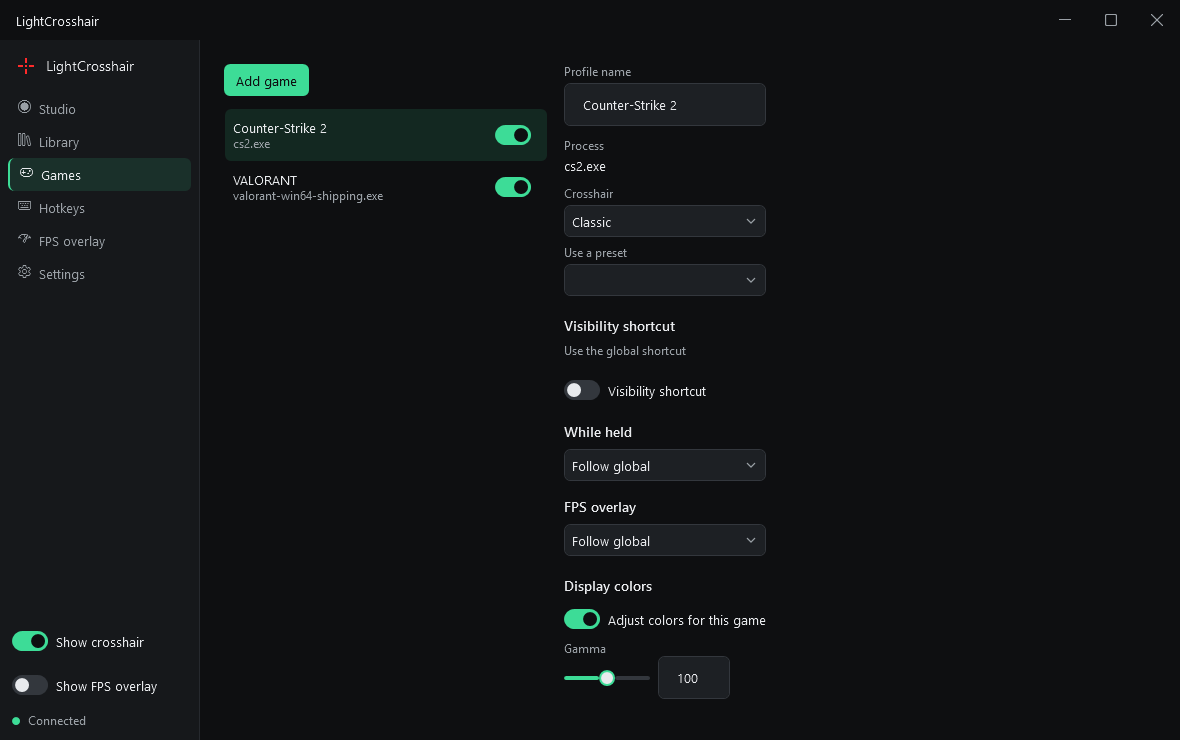
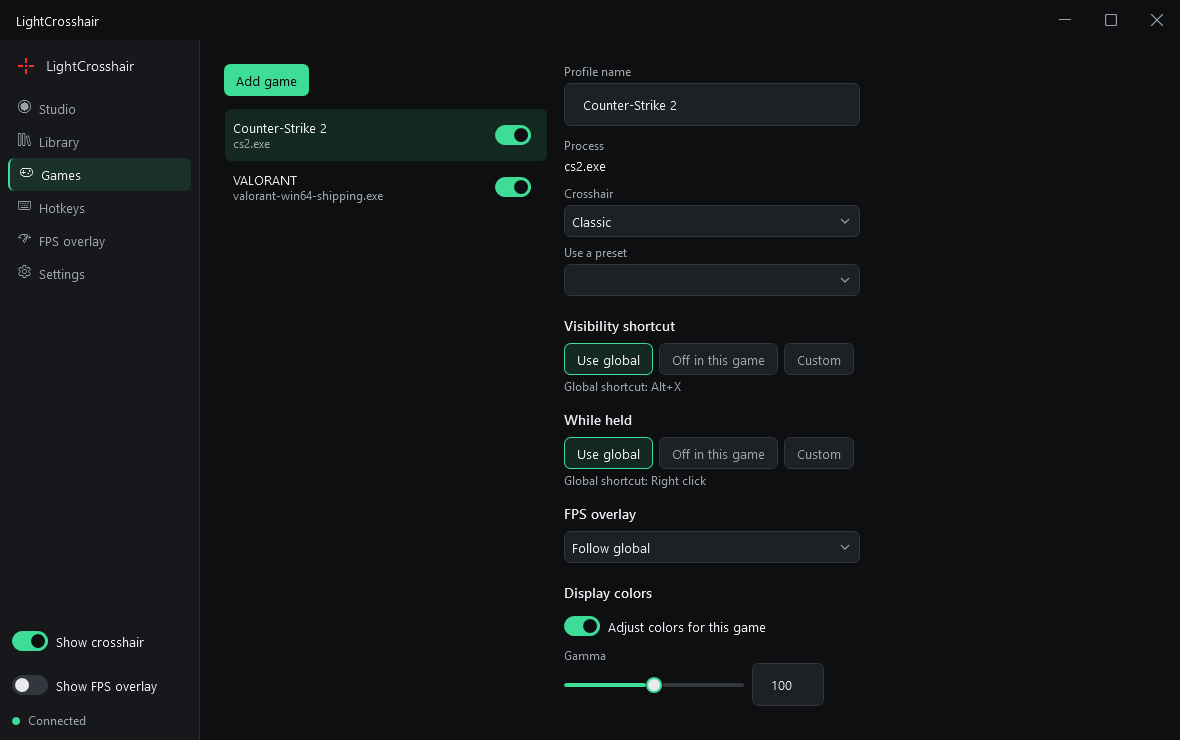
Document the release-blocker fixes and record how each was verified
README, CHANGELOG and SETTINGS describe the FPS overlay hotkey, graph color,
single binding control, immediate game overrides, close-button choice and live
display colors. OPEN-ITEMS has a status line per item with the evidence and
what Lorenzo still needs to check in game. Hotkeys, Games and Settings
screenshots are regenerated.

Changed region(s): [[0.4576, 0.4662, 0.7322, 0.6527], [0.4576, 0.6838, 0.6712, 0.9324]]

diff --git a/docs/SETTINGS.md b/docs/SETTINGS.md
@@ -1,6 +1,6 @@
 # Settings guide — LightCrosshair 2.0
 
-Open settings from the tray or with Alt+L. Closing this window leaves the Core and overlay running. **Exit LightCrosshair** on the Settings page stops both processes and restores display colors.
+Open settings from the tray or with Alt+L. By default closing this window leaves the Core and overlay running (Settings → Behavior → **When I close the window** can make it exit everything). **Exit LightCrosshair** on the Settings page stops both processes and restores display colors. Confirmations and errors appear inside the window; Tab moves between their buttons, Enter chooses, Esc cancels.
 
 ## Visibility and saving
 
@@ -58,13 +58,13 @@ Next/previous hotkeys cycle favorites only when at least two exist. With zero or
 
 Use **Add game** to choose a running windowed process or browse to an `.exe`. A profile matches the executable file name, not a particular window title or full path. One profile is allowed per executable name.
 
-Select a profile to edit its name and crosshair, then Save. The list's enable switch controls whether its foreground overrides are used. Deleting a profile removes its game association, leaving its saved crosshair in Library.
+Select a profile to edit its name, colors and other options, then **Save profile**. The crosshair choice and the two binding overrides save immediately. The list's enable switch controls whether its foreground overrides are used. Deleting a profile removes its game association, leaving its saved crosshair in Library.
 
 | Control | Behavior |
 |---|---|
 | Crosshair | Saved design to use while the configured executable is in the foreground |
-| Visibility override | Use a game-specific visibility binding and mode, or inherit the global binding |
-| While held | Follow global, off in this game, or an independent Hold to hide / Hold to show keyboard or mouse-button binding |
+| Visibility shortcut | **Use global** (the global shortcut is shown below), **Off in this game**, or **Custom**: one binding field plus Toggle / Hold to hide / Hold to show. Saves immediately |
+| While held | **Use global**, **Off in this game**, or **Custom**: one binding field plus Hold to hide / Hold to show. Saves immediately |
 | FPS overlay | Follow the global setting, force On or force Off |
 | Use display colors | Apply saved values while this game is active; switching off retains the values |
 | Gamma / Contrast / Brightness | Display adjustments, 50–150; 100 is neutral |
@@ -76,7 +76,7 @@ Display colors affect the display, not just the crosshair. Leaving a game restor
 
 AMD uses driver brightness, contrast and vibrance plus a per-display GDI gamma ramp. Gamma 100 preserves the existing calibration. Unsupported driver requests are reported inline and logged with the vendor's reason. Success clears an apply error; a failed restoration keeps its recovery journal for retry. NVIDIA features remain hardware-dependent.
 
-Drag a color slider to preview the current working values, including unsaved Games edits. Preview requests are limited to 20 per second and always drain the final value. Releasing, leaving the page, parking or disconnecting ends the preview and restores the active game/global context. Games edits still require Save; Settings saves automatically.
+Moving a color slider previews the value live, without flashing the old colors in between. Preview requests are limited to 20 per second and always send the final value. In Games the released value stays on screen until you **Save profile**, pick another profile, leave the page, close the window or disconnect; Save then applies the saved colors at once in the current context (the game, if it is the last foreground app), no game restart needed. Settings saves automatically on release. Colors are re-applied whenever the foreground app changes, so a game that resets the display on focus gets them back.
 
 A driver cap is written when the profile is saved and persists in the driver's application profile. Turning off the profile's foreground enable switch does not clear that cap: switch off the cap and Save, or delete the managed profile, to remove it. Old driver caps that were never managed by 2.0 are left untouched.
 
@@ -90,10 +90,11 @@ Known-game suggestions offer **Create**, **Not now** and **Never for this game**
 | Alt+C | Next favorite when at least two exist; otherwise next saved crosshair |
 | Alt+V | Previous favorite when at least two exist; otherwise previous saved crosshair |
 | Alt+L | Open or close settings |
+| Alt+F | Show or hide the FPS overlay (same setting as the sidebar switch; a game's FPS override still wins) |
 
-Click a capture field and press the desired keyboard key; Esc cancels. For a mouse binding, use the explicit picker for Middle click, Right click, Mouse4, Mouse5, Wheel up or Wheel down, then choose the Alt, Ctrl, Shift or Win modifiers alongside it. Mouse input can also be captured while the capture field is active. **Clear** removes a binding.
+Every binding is one field. Click it and press a key, a key with Alt/Ctrl/Shift/Win, or a mouse button (Middle, Right, Mouse4, Mouse5, wheel); Esc cancels. Or open the field's ▾ menu (Alt+Down) and pick a mouse button; the current modifiers stay. **Clear** removes a binding.
 
-**While held** is a separate action, unbound initially, with Hold to hide / Hold to show modes. For example, select Right click without modifiers and Hold to hide to hide while aiming. The visibility toggle keeps Alt+X. A game can inherit, disable or replace the global hold binding. Other actions and all wheel bindings use Toggle. Releasing a hold, losing focus or starting binding capture restores the underlying visibility state; the temporary hold is never saved. Core actions are paused during binding capture and resume when it ends. Input still reaches other applications; a bound mouse button keeps its normal game behavior.
+**While held** is a separate action, unbound initially, with Hold to hide / Hold to show modes. For example, select Right click without modifiers and Hold to hide to hide while aiming. A hold also works while other modifiers are held (sprinting with Shift, crouching with Ctrl); toggles need their exact chord. Mouse buttons are read from raw input, the same stream games read, so a game's own raw-input mode does not hide them. The visibility toggle keeps Alt+X. A game can inherit, disable or replace the global hold binding. Other actions and all wheel bindings use Toggle. Releasing a hold, losing focus or starting binding capture restores the underlying visibility state; the temporary hold is never saved. Core actions are paused during binding capture and resume when it ends. Input still reaches other applications; a bound mouse button keeps its normal game behavior.
 
 Conflicts and Core registration failures appear under the affected action. Choose another binding if Windows or another application already owns it.
 
@@ -105,7 +106,7 @@ Choose the overlay monitor by model name, for example **DELL S2721DGF · Display
 
 ### Display colors
 
-Enable **Adjust display colors** in Settings to apply gamma, contrast, brightness and vibrance on the desktop and in apps. Controls and ranges match Games. Optional NVIDIA Digital Vibrance is enabled only when the GPU reports support. An active game's enabled, configured colors override globals. With neither enabled, original display values are restored. Global settings save automatically; slider preview ends on release and returns to that precedence. These changes affect the whole display, including other apps.
+Enable **Adjust display colors** in Settings to apply gamma, contrast, brightness and vibrance on the desktop and in apps. Controls and ranges match Games. Optional NVIDIA Digital Vibrance is enabled only when the GPU reports support. An active game's enabled, configured colors override globals. With neither enabled, original display values are restored. Global settings save automatically; the released value is saved and stays applied unless an enabled game profile has priority. These changes affect the whole display, including other apps.
 
 ### Behavior
 
@@ -115,6 +116,7 @@ Enable **Adjust display colors** in Settings to apply gamma, contrast, brightnes
 | Hide during screen recording | Check for recorder processes only while enabled; an open recorder can hide the crosshair even when it is not recording |
 | Start with Windows | Start the Core for the current user at sign-in |
 | Suggest known games | Offer local profile suggestions for recognized foreground executables |
+| When I close the window | **Keep running in the tray** (default: the window hides, crosshair and FPS overlay stay) or **Exit LightCrosshair** (× quits settings and Core, restoring display colors). Tray → Exit always quits both |
 
 ### Language, updates and exit
 
@@ -136,6 +138,7 @@ Open **FPS overlay** in the sidebar (between Hotkeys and Settings). Use **Show F
 | Frametime / 1% low | Show or hide the additional values |
 | Frametime graph | Off by default. Show about two seconds of peak frametimes under the numbers, at at most 20 redraws/s. With the graph off, unchanged numbers cause no redraw; with the overlay off, capture and its timer stop. |
 | Text color / Background color | Hexadecimal RGB colors |
+| Use a different color for the graph | Off: the graph uses the text color. On: choose a graph color |
 | Background opacity | Background transparency, 0–100% |
 
 ## Storage and recovery

diff --git a/docs/v2/OPEN-ITEMS.md b/docs/v2/OPEN-ITEMS.md
@@ -9,42 +9,59 @@ Everything else in [TODO.md](TODO.md) and [RELEASE-CHECKLIST.md](RELEASE-CHECKLI
 ## To fix
 
 ### 1. Hotkey for the FPS overlay
+**Status (2026-11-17): fixed.** `HotkeySettings.ToggleFpsOverlay`, default Alt+F (left unbound when a migrated 1.9 binding already uses Alt+F), toggles and persists `Settings.FpsOverlay.Enabled`, the same setting as the sidebar switch; a game's FPS override still wins in that game. New "Show or hide FPS overlay" row on Hotkeys with the same control and conflict/registration errors. Verified: unit tests (default, conflict, toggle-only, migration), UI tests, and `scripts/perf/fps-hotkey-smoke.ps1` pressing a real Alt+F against the published Core (False → True → False). Lorenzo: press Alt+F in game.
+
 - Add a "Show/hide FPS overlay" hotkey, like the crosshair one (Hotkeys page, same capture control).
 - Contract: `HotkeySettings.ToggleFpsOverlay` (InputBinding). Default to decide (proposal: unbound, or Alt+F if it doesn't conflict).
 - It toggles the same setting as the sidebar "Show FPS overlay" switch.
 
 ### 2. Separate color for the frametime graph
+**Status: fixed.** `FpsOverlaySettings.GraphColor` (null = text color), validated like the other colors. FPS overlay page: "Use a different color for the graph" switch (shown with the graph) + color field. Verified: Core/UI tests and the published UI (switch on → store `graphColor` set). Lorenzo: check the graph color in game.
+
 - Default: the graph uses the text color.
 - Option: "Use a different color for the graph" + color field.
 - Contract: `FpsOverlaySettings.GraphColor` (`string?`, null = same as text).
 
 ### 3. Hide while aiming doesn't work in game
+**Status: fixed; needs Lorenzo's in-game check.** Evidence: (a) with the shipped build, a borderless DX12 window that reads the mouse through raw input with `RIDEV_NOLEGACY` (new `SwapchainProbe --raw-nolegacy`) hides/shows correctly for a global and a per-game Right click hold, with mouse movement, so the hook, binding resolution and redraw worked; (b) Lorenzo's saved store (read-only) has Fortnite `holdVisibility.key = ""`, i.e. **Off in this game**: the Games page showed "Own binding / Right click" only in its unsaved working copy, so Core never had the binding; (c) the shipped build ignores the hold while Shift is held (sprint): 40/40 samples shown. Fixes: Games overrides now save immediately (item 4); a hold matches while extra modifiers are held (toggles keep exact chords); mouse buttons and wheel are read from raw input (`RIDEV_INPUTSINK`, the stream games read) instead of a low-level mouse hook, so another app's hook or a game's raw-input mode cannot hide them. New build: hold-smoke passes (with and without raw input), and with Shift held 40/40 samples hidden. Lorenzo: in Fortnite set While held → Custom → Right click → Hold to hide (it saves at once) and aim, also while sprinting.
+
 - Setup: While held → Own binding → Right click → Hold to hide. In Fortnite, holding right mouse does not hide the crosshair.
 - Investigate with evidence: does the low-level mouse hook see the right button while the game has focus (raw input, EAC)? Does the binding reach the state machine? Does the game-profile override resolve correctly? Is the overlay redrawn on press/release?
 - Verify in a real game, not only in tests.
 
 ### 4. "While held" setup is confusing
+**Status: fixed.** One binding control everywhere: a capture field with a ▾ menu of mouse buttons (Alt+Down opens it; wheel entries only where toggles are allowed), plus the mode selector where it applies; the separate mouse dropdowns are gone. Games: Visibility shortcut and While held are three segments, Use global · Off in this game · Custom (with the global shortcut shown), and save immediately. Also fixed a capture bug: the field asked `CanExecute` with the wrong argument, which threw for typed commands. Verified: UI tests (menu keeps modifiers, wheel forces Toggle, immediate override saves with unrelated edits left unsaved) and the published UI via UI Automation (Custom → store `RightClick/holdToHide` without Save); screenshots in `docs/images/ui-hotkeys.png`, `ui-games.png`.
+
 - The row shows a dropdown ("Own binding"), a capture field ("Right click") **and** a second "Right click" dropdown: two controls for the same thing.
 - Redesign to one binding control that accepts both a key/mouse capture and a mouse-button choice (for example a capture field with a ▾ that lists mouse buttons), plus the mode (Hold to hide / Hold to show).
 - In Games, the override reads as three clear choices: Use global · Off in this game · Custom (then the same single control).
 - Apply the same single control to every hotkey row for consistency.
 
 ### 5. All dialogs in the app style
+**Status: fixed.** The last Windows `MessageBox` (UI unhandled-error handler) now uses the in-app dialog. The dialog takes keyboard focus on the primary button, or on Cancel for destructive confirmations, keeps Tab inside, Esc cancels, text wraps, all strings localized. Core uses only tray balloons. A test fails if `MessageBox`/`TaskDialog` appears in Core or UI sources. Verified: UI tests (focus, Esc) and the published UI (Exit confirmation rendered in the app style with focus on Cancel).
+
 - No default Windows message boxes anywhere: confirmations, errors, warnings, unsaved changes, import results, etc. use an in-app dialog styled with the design tokens (DESIGN.md), keyboard accessible, localized in 6 languages.
 - Check Core too (tray-related errors); Windows tray notifications can stay native.
 
 ### 6. Close button behavior setting
+**Status: fixed.** `AppSettings.CloseButtonExits` (default false). Settings → Behavior → "When I close the window": Keep running in the tray / Exit LightCrosshair. Tray → Exit and Settings → Exit still quit both. Verified in the published app: with Exit chosen, the window × ended both UI and Core; with the default, × parked the UI and Core kept running. Alt+L is unchanged.
+
 - Settings → Behavior: "When I close the window" → **Keep running in the tray** (default, same as Alt+L: the window parks, overlays stay) / **Exit LightCrosshair** (closes UI and Core, overlays disappear).
 - Contract: `AppSettings.CloseButtonExits` (bool, default false), or an enum.
 - Tray → Exit keeps exiting everything.
 
 ### 7. Display colors: live preview and immediate apply are broken
+**Status: fixed; needs Lorenzo's in-game check.** Cause: every color change ran a full transaction that first restored the original ramp/ADL values and re-captured them, so each preview step flashed the old colors, and the Games preview ended on release (reverting to the saved values). Fix: a live session writes new values straight over its kept baseline (restore only when no colors apply or NVIDIA vibrance presence changes); AMD puts the captured ramp back when gamma returns to 100; colors are re-applied on every foreground change; the Games preview stays after release until Save / another profile / page change / park; Save applies at once in the current context. Readback on the RX 6950 XT (`scripts/perf/color-live-smoke.ps1`, GDI Red[128] sampled every ~2 ms): shipped build 12–13 flashes back to the original during a 15-step drag and a profile saved while the game is foreground never reached the screen (ramp stayed 24124); new build 0 flashes, released value kept, saved game colors applied within 0.5 s (30705 → 26751), original restored exactly on exit. Through the published UI: Games gamma slider → ramp 32896 → 28660, still 28660 2 s later, not saved until Save; after Save outside the game the original 32896 returns. Lorenzo: drag vibrance/gamma with Fortnite running and Save without restarting the game.
+
 - While dragging a slider (e.g. vibrance) the screen flickers between the new value and the old one; after releasing, the value is **not** kept.
 - Saved values only take effect after restarting the game. In 1.9 changes were applied in real time.
 - Expected: smooth live preview while dragging (no flicker), the released value stays applied, and saving applies it immediately in the current context (game in foreground or global), without restarting the game.
 - Likely areas: `previewDisplayColors` ending/restoring between throttled updates, the recovery journal capture racing with the preview, apply only on foreground change. Compare with how 1.9 applied changes from the settings window.
 
 ## After the fixes
+
+Build for the retest: `releases/LightCrosshair-v2.0.0-win-x64/LightCrosshair.exe` and `setup/Output/LightCrosshair-Setup-2.0.0.exe` (2026-11-17). Not checked here: Fortnite/EAC itself, NVIDIA hardware, HDR.
+
 1. Lorenzo retests these 7 items in game.
 2. Rebuild packages and installer, fill SHA256 in README.
 3. Align `main` with `origin/main`, PR `v2` → `main`, tag `v2.0.0`, GitHub release, winget/choco.

diff --git a/README.md b/README.md
@@ -16,7 +16,7 @@ Choose the 2.0 release on the [releases page](https://github.com/PrimeBuild-pc/L
 | Portable ZIP, x64 | `LightCrosshair-v2.0.0-win-x64.zip` | TBD |
 | Portable ZIP, ARM64 | `LightCrosshair-v2.0.0-win-arm64.zip` | TBD |
 
-For a ZIP, extract the whole folder and keep `LightCrosshair.exe` and `LightCrosshair.UI.exe` together. Start `LightCrosshair.exe`; open settings from the tray or with Alt+L. Closing the settings window with × leaves the Core running and parks the settings process for up to five minutes for quick reopening. Use **Exit LightCrosshair** to stop both processes and restore display colors.
+For a ZIP, extract the whole folder and keep `LightCrosshair.exe` and `LightCrosshair.UI.exe` together. Start `LightCrosshair.exe`; open settings from the tray or with Alt+L. Closing the settings window with × leaves the Core running and parks the settings process for up to five minutes for quick reopening; Settings → Behavior → **When I close the window** can make × exit everything instead. Use **Exit LightCrosshair** to stop both processes and restore display colors.
 
 WinGet and Chocolatey packages may follow the GitHub release. Once the 2.0 packages are published:
 
@@ -45,9 +45,9 @@ The [Chocolatey package page](https://community.chocolatey.org/packages/lightcro
 - Next/previous cycling uses favorites when at least two exist, otherwise all saved crosshairs, and saves the choice for the active game or as the default.
 - `LC2:` share codes for vector designs and `.lcx.json` import/export with embedded images.
 - Game profiles for crosshairs, display colors, visibility bindings and FPS overlay overrides. Optional suggestions for recognized games.
-- Global and per-game gamma, contrast, brightness and vibrance, with live slider preview and recovery of original display values; AMD color support; NVIDIA Digital Vibrance and per-app driver FPS caps on supported hardware.
-- A dedicated FPS overlay page and sidebar switch, with FPS, frametime, 1% low and an optional two-second frametime graph. Capture runs only while enabled; the graph draws at most 20 times per second.
-- Separate Toggle and While held bindings: hold right mouse to hide the crosshair while aiming, then release to restore it. Games can follow the global hold, disable it or use their own. Keyboard and mouse input continues to reach the game.
+- Global and per-game gamma, contrast, brightness and vibrance, applied live without flicker while you drag, kept when you release and applied immediately when saved (also with the game running), with recovery of original display values; AMD color support; NVIDIA Digital Vibrance and per-app driver FPS caps on supported hardware.
+- A dedicated FPS overlay page, sidebar switch and Alt+F hotkey, with FPS, frametime, 1% low and an optional two-second frametime graph in the text color or its own color. Capture runs only while enabled; the graph draws at most 20 times per second.
+- Separate Toggle and While held bindings: hold right mouse to hide the crosshair while aiming (also while sprinting or crouching with Shift/Ctrl), then release to restore it. Mouse buttons are read from raw input, the same stream games use. Each game can Use global, turn it Off or use a Custom binding; these choices save immediately. Keyboard and mouse input continues to reach the game.
 - Monitor selection by model name, position offsets, startup with Windows, automatic backups and display-color recovery after a crash.
 - English, Italian, Spanish, Simplified Chinese, Russian and Japanese.
 
@@ -79,8 +79,9 @@ Charts use decimal MB and CPU as a percentage of one logical core; a sampled zer
 | Alt+C | Next favorite when at least two exist; otherwise next saved crosshair |
 | Alt+V | Previous favorite when at least two exist; otherwise previous saved crosshair |
 | Alt+L | Open or close settings |
+| Alt+F | Show or hide the FPS overlay |
 
-Cycling follows Library order and saves the selection into the active configured game profile, or the default when no configured game is active. Presets enter the cycle after you save a copy. Bindings can be changed or cleared in Hotkeys, including an independent, initially unbound While held action (Hold to hide / Hold to show). Wheel bindings are toggle-only. Input continues to reach the game; conflicts and registration failures are shown in the UI.
+Cycling follows Library order and saves the selection into the active configured game profile, or the default when no configured game is active. Presets enter the cycle after you save a copy. Bindings can be changed or cleared in Hotkeys, including an independent, initially unbound While held action (Hold to hide / Hold to show). Each binding is one field: click it and press a key or mouse button, or pick a mouse button from its ▾ menu. Wheel bindings are toggle-only. Input continues to reach the game; conflicts and registration failures are shown in the UI.
 
 ## Limitations and safety
 

diff --git a/CHANGELOG.md b/CHANGELOG.md
@@ -14,6 +14,8 @@
 - Independent While held visibility binding, with per-game inherit/off/own policies and click pass-through.
 - A dedicated FPS overlay page and sidebar switch, plus an optional bounded two-second frametime graph (off by default, at most 20 redraws/s).
 - Global display colors and live slider previews in Settings and Games; game colors take precedence over globals.
+- Show/hide FPS overlay hotkey (Alt+F; left unbound when a migrated 1.9 binding already uses it) and an optional separate frametime graph color.
+- Settings → Behavior → When I close the window: keep running in the tray (default) or exit LightCrosshair.
 - A v2 data store with atomic saves, automatic backups, corrupt-file recovery and a display-color recovery journal.
 
 ### Changed
@@ -30,6 +32,10 @@
 - Decode DXGI/D3D9 present events without requiring registered ETW payload decoders, include MPO presents, track swapchains independently and retry failed capture sessions. Show a localized reason after two seconds without frames and stop native sessions when disabled.
 - Launch settings below normal CPU priority with low I/O priority during games/fullscreen foreground windows; queue IPC thumbnails on one below-normal worker and discard obsolete queued work.
 - Focus a parked connected settings process instead of closing it or launching a replacement.
+- Each binding is one control: a capture field with a ▾ menu of mouse buttons, on every hotkey row and in Games. Game overrides are Use global / Off in this game / Custom and save immediately.
+- Read mouse bindings from raw input instead of a low-level mouse hook, and let a hold match while extra modifiers are held (sprint/crouch while aiming).
+- Switch display colors in place: slider previews no longer flash the previous colors, the released value stays, saved colors apply immediately while the game runs, and colors are re-applied on every foreground change.
+- Confirmations and errors use the in-app dialog (keyboard accessible, localized); no Windows message boxes remain.
 - Apply and recover AMD gamma through named display contexts, preserving each monitor's original ramp alongside ADL values. Report driver failures inline and keep the recovery journal until restoration succeeds.
 
 ### Removed
